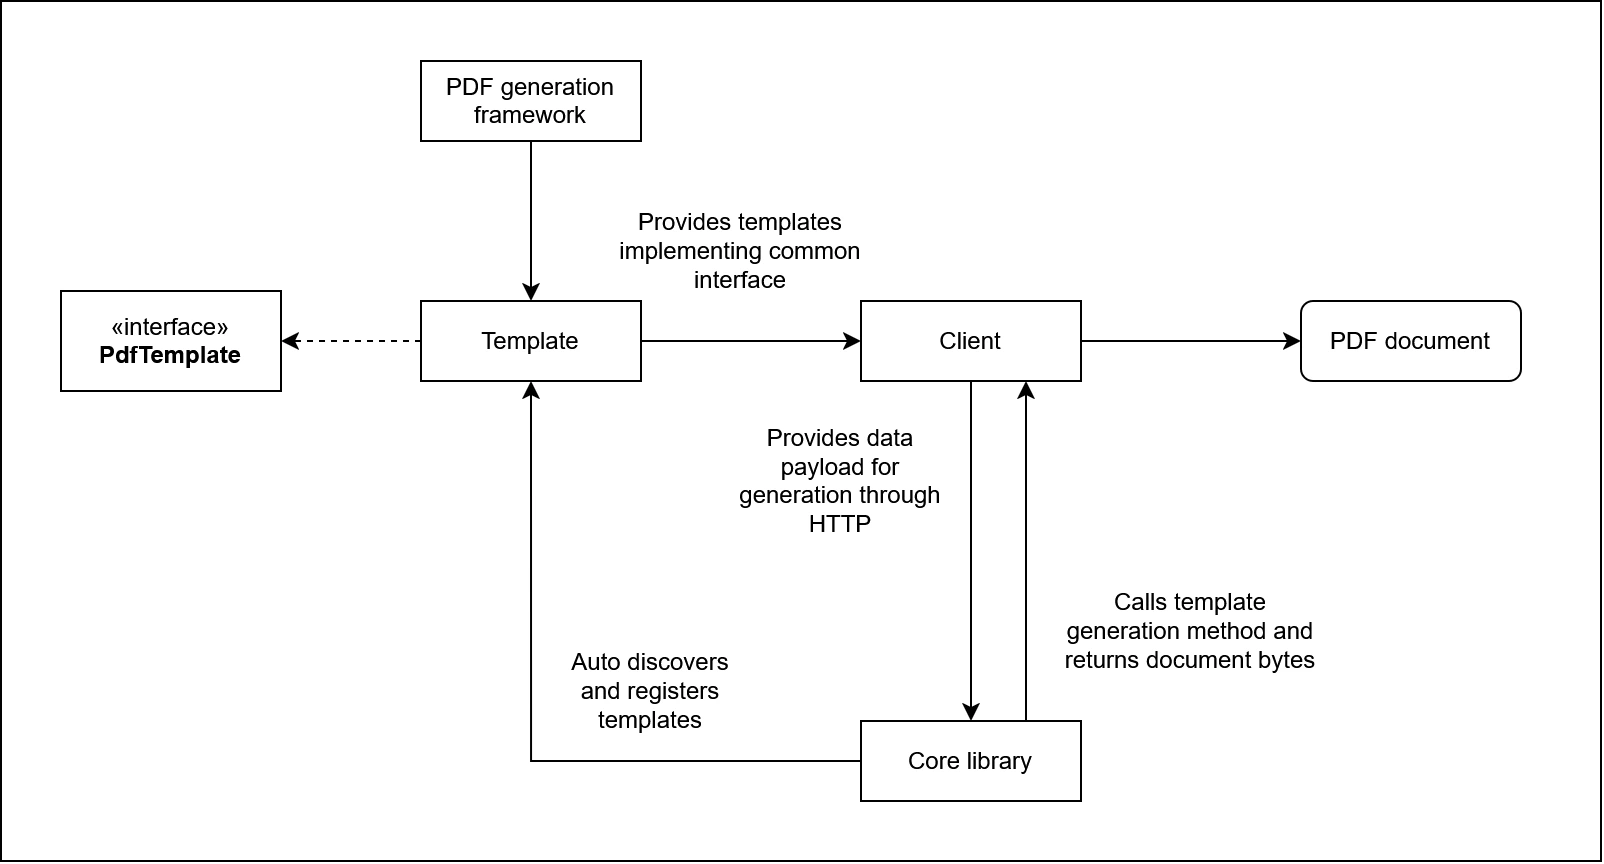
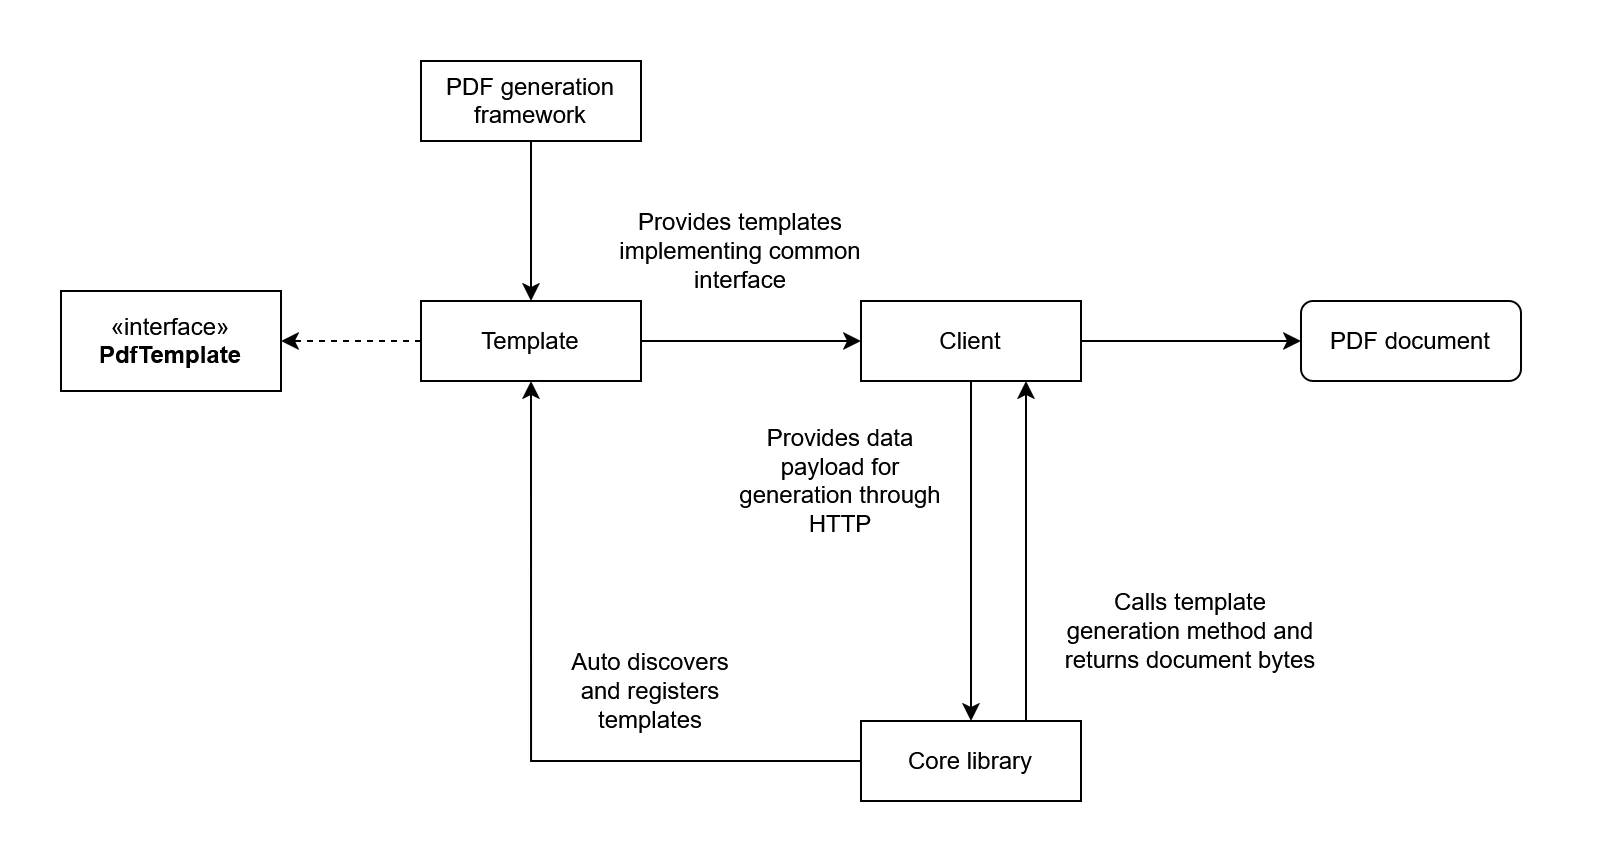
add CHANGELOG and gitattributes, fix images

Changed region(s): [[0.9975, 0.0, 1.0, 1.0], [0.0, 0.9688, 0.0312, 1.0], [0.0, 0.0, 0.0312, 0.0312]]

diff --git a/CHANGELOG.md b/CHANGELOG.md
@@ -1,0 +1,8 @@
+## [1.0.0] - 2026-05-05
+
+### Added
+
+- Core library, scan & registration.
+- Default template.
+- HTTP generation endpoint.
+- Example client.
